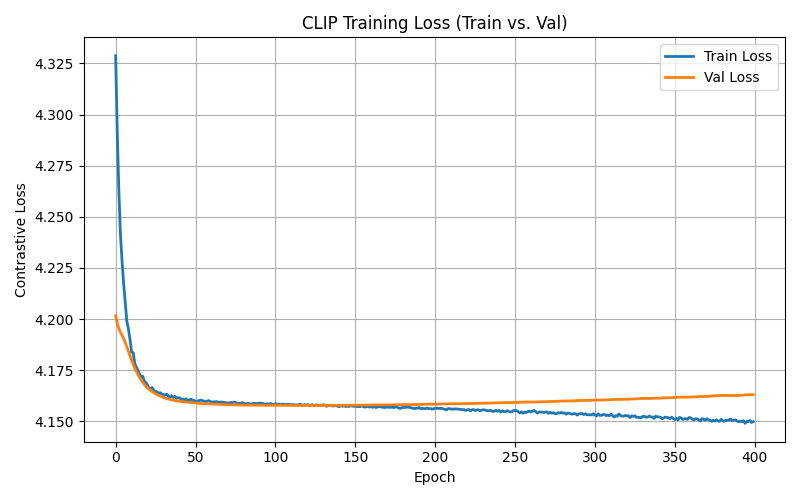
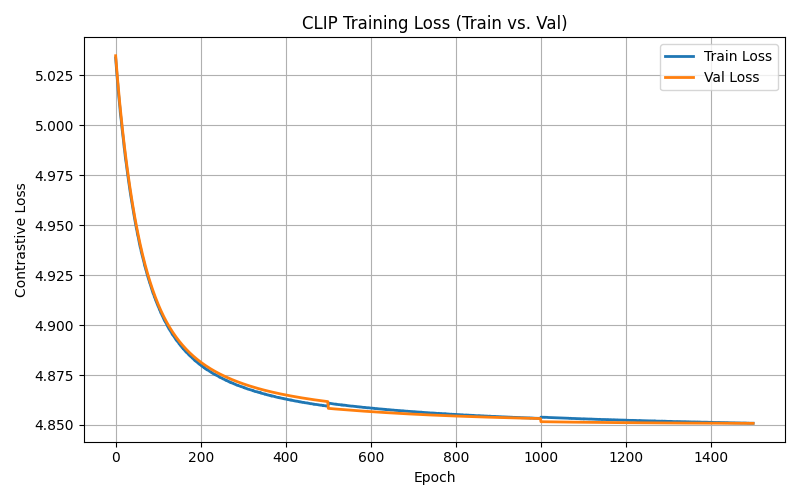
changed train_test to include words

diff --git a/eeg_alignment/clip_baseline.py b/eeg_alignment/clip_baseline.py
@@ -12,11 +12,11 @@ class EEGEncoder(nn.Module):
             nn.Linear(eeg_dim, embed_dim),
             nn.LayerNorm(embed_dim),
             nn.ReLU(),
-            nn.Dropout(0.3)
+            nn.LayerNorm(embed_dim)
         )
+
     def forward(self, eeg):
         return self.encoder(eeg)
-
 
 # === Text Encoder ===
 class TextEncoder(nn.Module):
@@ -26,8 +26,9 @@ class TextEncoder(nn.Module):
             nn.Linear(text_dim, embed_dim),
             nn.LayerNorm(embed_dim),
             nn.ReLU(),
-            nn.Dropout(0.3)
+            nn.LayerNorm(embed_dim)
         )
+
     def forward(self, text):
         return self.encoder(text)
 
@@ -35,7 +36,7 @@ class TextEncoder(nn.Module):
 
 # === Full CLIP Model ===
 class EEGTextCLIP(nn.Module):
-    def __init__(self, eeg_dim, text_dim, embed_dim=128):
+    def __init__(self, eeg_dim, text_dim, embed_dim):
         super().__init__()
         self.eeg_encoder = EEGEncoder(eeg_dim, embed_dim)
         self.text_encoder = TextEncoder(text_dim, embed_dim)

diff --git a/eeg_alignment/train_clip_baseline.py b/eeg_alignment/train_clip_baseline.py
@@ -12,11 +12,12 @@ from torch.utils.data import DataLoader, Dataset, random_split
 import torch.optim as optim
 import matplotlib.pyplot as plt
 from clip_baseline import EEGTextCLIP
+from lion_pytorch import Lion
 
 # === Hyperparameters ===
-batch_size = 64
+batch_size = 128
 lr = 1e-6
-epochs = 400
+epochs = 1500
 val_ratio = 0.3
 device = torch.device('cuda' if torch.cuda.is_available() else 'cpu')
 
@@ -52,10 +53,11 @@ val_loader = DataLoader(val_set, batch_size=batch_size, shuffle=False)
 # === Model ===
 eeg_dim = eeg_all.shape[1]
 text_dim = text_all.shape[1]
-embed_dim = 128
+embed_dim = 64
 
 model = EEGTextCLIP(eeg_dim, text_dim, embed_dim).to(device)
 optimizer = optim.AdamW(model.parameters(), lr=lr)
+#optimizer = Lion(model.parameters(), lr=lr, weight_decay=1e-2)
 criterion = nn.CrossEntropyLoss()
 
 # === Checkpoint ===
